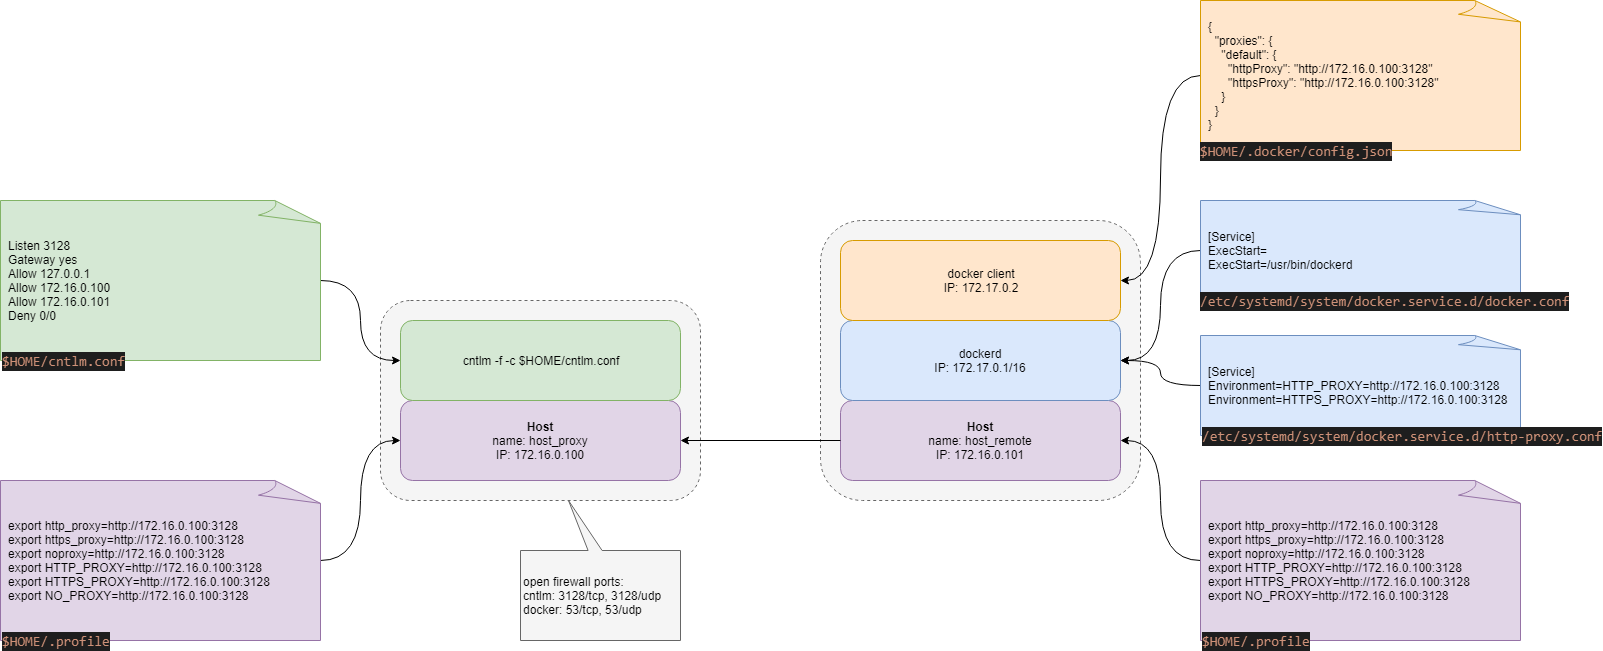
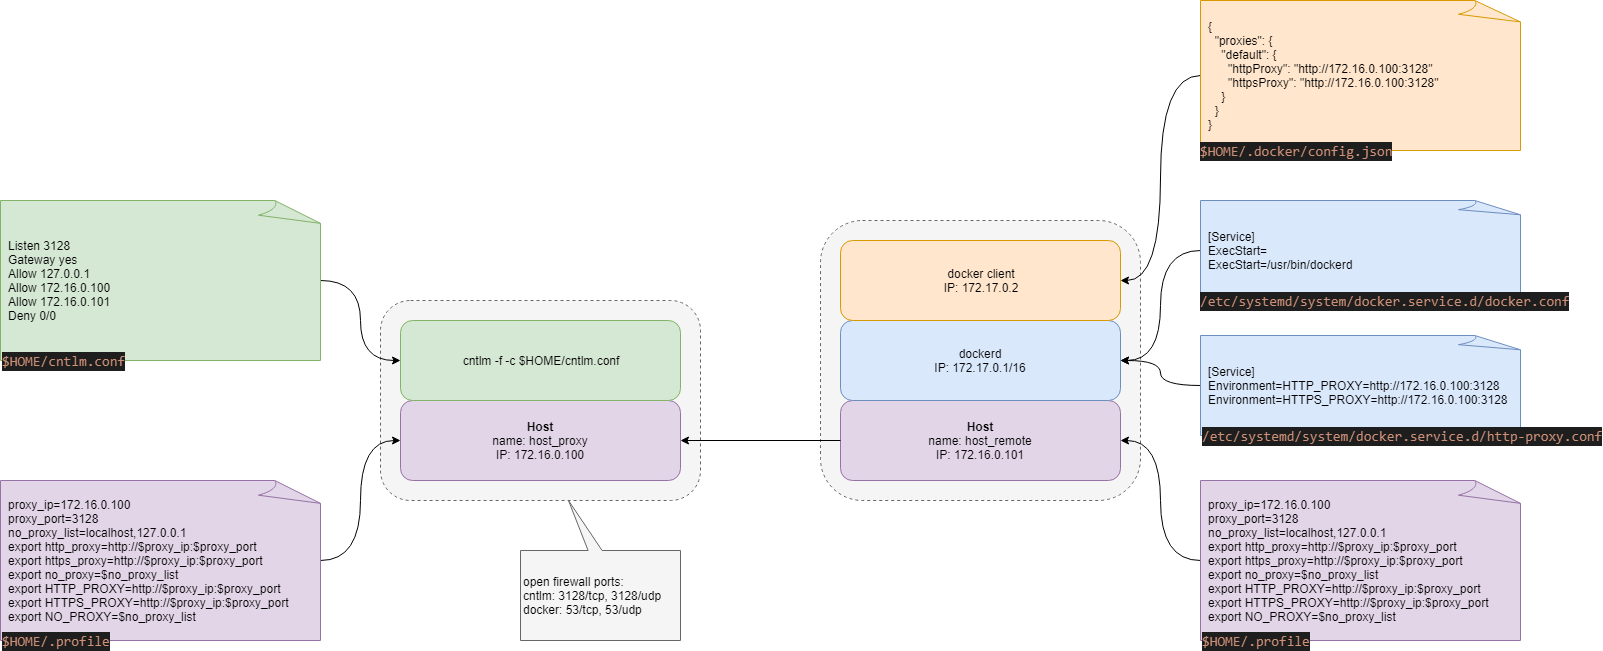
updated environment proxy settings

Changed region(s): [[0.7486, 0.768, 0.9357, 0.9524], [0.0, 0.768, 0.1871, 0.9524]]

diff --git a/README.md b/README.md
@@ -8,13 +8,28 @@
 
 Need to set the following environment proxy variables, as external IP addresses, on each host file `$HOME/.profile`, for example:
 
-```sh
-export http_proxy=http://172.16.0.100:3128
-export https_proxy=http://172.16.0.100:3128
-export no_proxy=http://172.16.0.100:3128
-export HTTP_PROXY=http://172.16.0.100:3128
-export HTTPS_PROXY=http://172.16.0.100:3128
-export NO_PROXY=http://172.16.0.100:3128
+```bash
+proxy_ip=172.16.0.100
+proxy_port=3128
+no_proxy_list=localhost,127.0.0.1
+export http_proxy=http://$proxy_ip:$proxy_port
+export https_proxy=http://$proxy_ip:$proxy_port
+export no_proxy=$no_proxy_list
+export HTTP_PROXY=http://$proxy_ip:$proxy_port
+export HTTPS_PROXY=http://$proxy_ip:$proxy_port
+export NO_PROXY=$no_proxy_list
+```
+
+```tcsh
+set proxy_ip=172.16.0.100
+set proxy_port=3128
+set no_proxy_list=localhost,127.0.0.1
+setenv http_proxy http://$proxy_ip:$proxy_port
+setenv https_proxy http://$proxy_ip:$proxy_port
+setenv no_proxy $no_proxy_list
+setenv HTTP_PROXY http://$proxy_ip:$proxy_port
+setenv HTTPS_PROXY http://$proxy_ip:$proxy_port
+setenv NO_PROXY $no_proxy_list
 ```
 
 Set the remote host IP address in the Ansible inventory file [hosts.yml](hosts.yml) and run the play using `./run_play.sh`.
